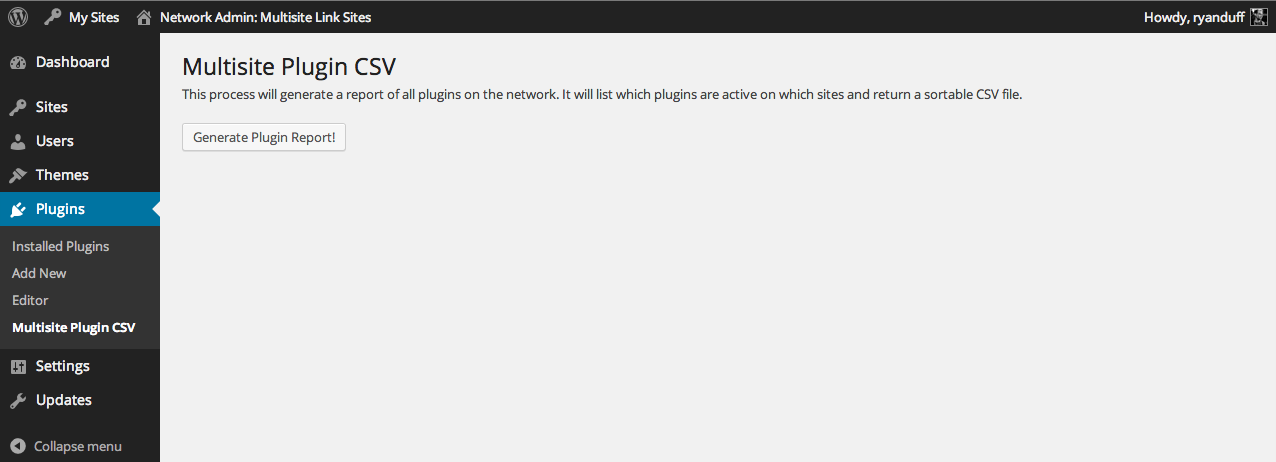
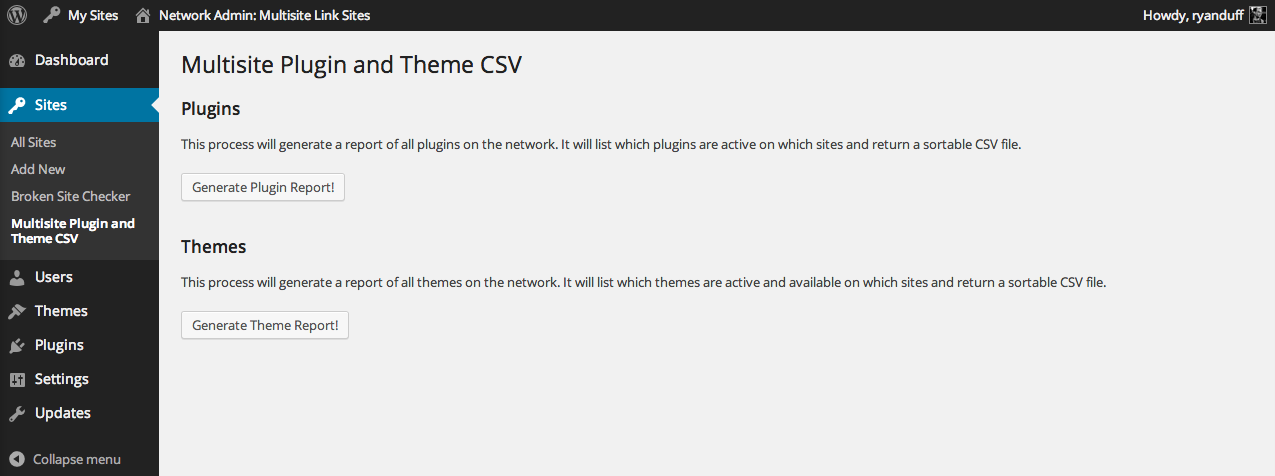
update readme and add new screenshots

diff --git a/readme.md b/readme.md
@@ -1,26 +1,27 @@
-# Multisite Plugin CSV #
+# Multisite Plugin and Theme CSV #
 
 Contributors: ryanduff  
-Tags: multisite, admin, multisite, plugin, management, network  
+Tags: multisite, admin, multisite, plugin, theme, management, network  
 Requires at least: 3.8  
 Tested up to: 3.8.1  
-Stable tag: 1.0.0  
+Stable tag: 1.1.0  
 License: GPLv2 or later  
 
-Generate a CSV list of all plugins and their activation status on a multisite network
+Generate a CSV list of all plugins or themes on a multisite network and their activation status
 
 ## Description ##
 
-Managing plugins on Multisite is hard. It's even harder when trying to figure out where and how a plugin is active on a large multisite network. This plugin generates a handy spreadsheet (CSV) containing all that information.
+Managing plugins and themes on Multisite is hard. It's even harder when trying to figure out where and how a plugin or theme is active on a large multisite network. This plugin generates a handy spreadsheet (CSV) containing all that information.
 
-Across the top is a column for every plugin available on the network. It shows both the plugin name (as specified in the plugin file), as well as the plugin file path so that you can track it down.
+Across the top is a column for every plugin or theme available on the network. For plugins, it shows both the plugin name (as specified in the plugin file), as well as the plugin file path so that you can track it down. For themes it shows the Theme name (as specified in the style.css header), as well as the theme folder name.
 
-Below that is a row for every site in your multisite network. This will show you if the plugin is activated manually (on a specific site), if it's network activated, or if it's not activated at all. 
+Below that is a row for every site in your multisite network. For plugins this will show you if the plugin is activated manually (on a specific site), if it's network activated, or if it's not activated at all. For themes this will tell you if the theme is active. It will also give you availability status for a theme on a given site-- either network active or manually available for the site. 
 
 ## Installation ##
 
-1. Network Activate plugin and visit Network Admin > Plugins > Multisite Plugin CSV
-2. Click the `Generate Plugin Report` button to generate the report and save the file.
+1. Network Activate plugin and visit Network Admin > Sites > Multisite Plugin and Theme CSV
+2. Click the `Generate Plugin Report` button to generate a report for plugins.
+3. Or click the `Generate Theme Report` button to generate a report for themes.
 
 ## Frequently Asked Questions ##
 
@@ -32,11 +33,15 @@ If you network deactivate the plugin, the sites marked as `Network Active` will 
 
 ## Screenshots ##
 
-1. Multisite Plugin CSV admin screen
-2. Sample CSV output
+1. Multisite Plugin and Theme CSV admin screen
+2. Sample CSV output for plugins
+3. Sample CSV output for themes
 
 ## Changelog ##
 
+### 1.1.0 ###
+* Added theme functionality
+* Minor tweaking and refactoring of existing code
 
 ### 1.0.0 ###
 * Initial Release
